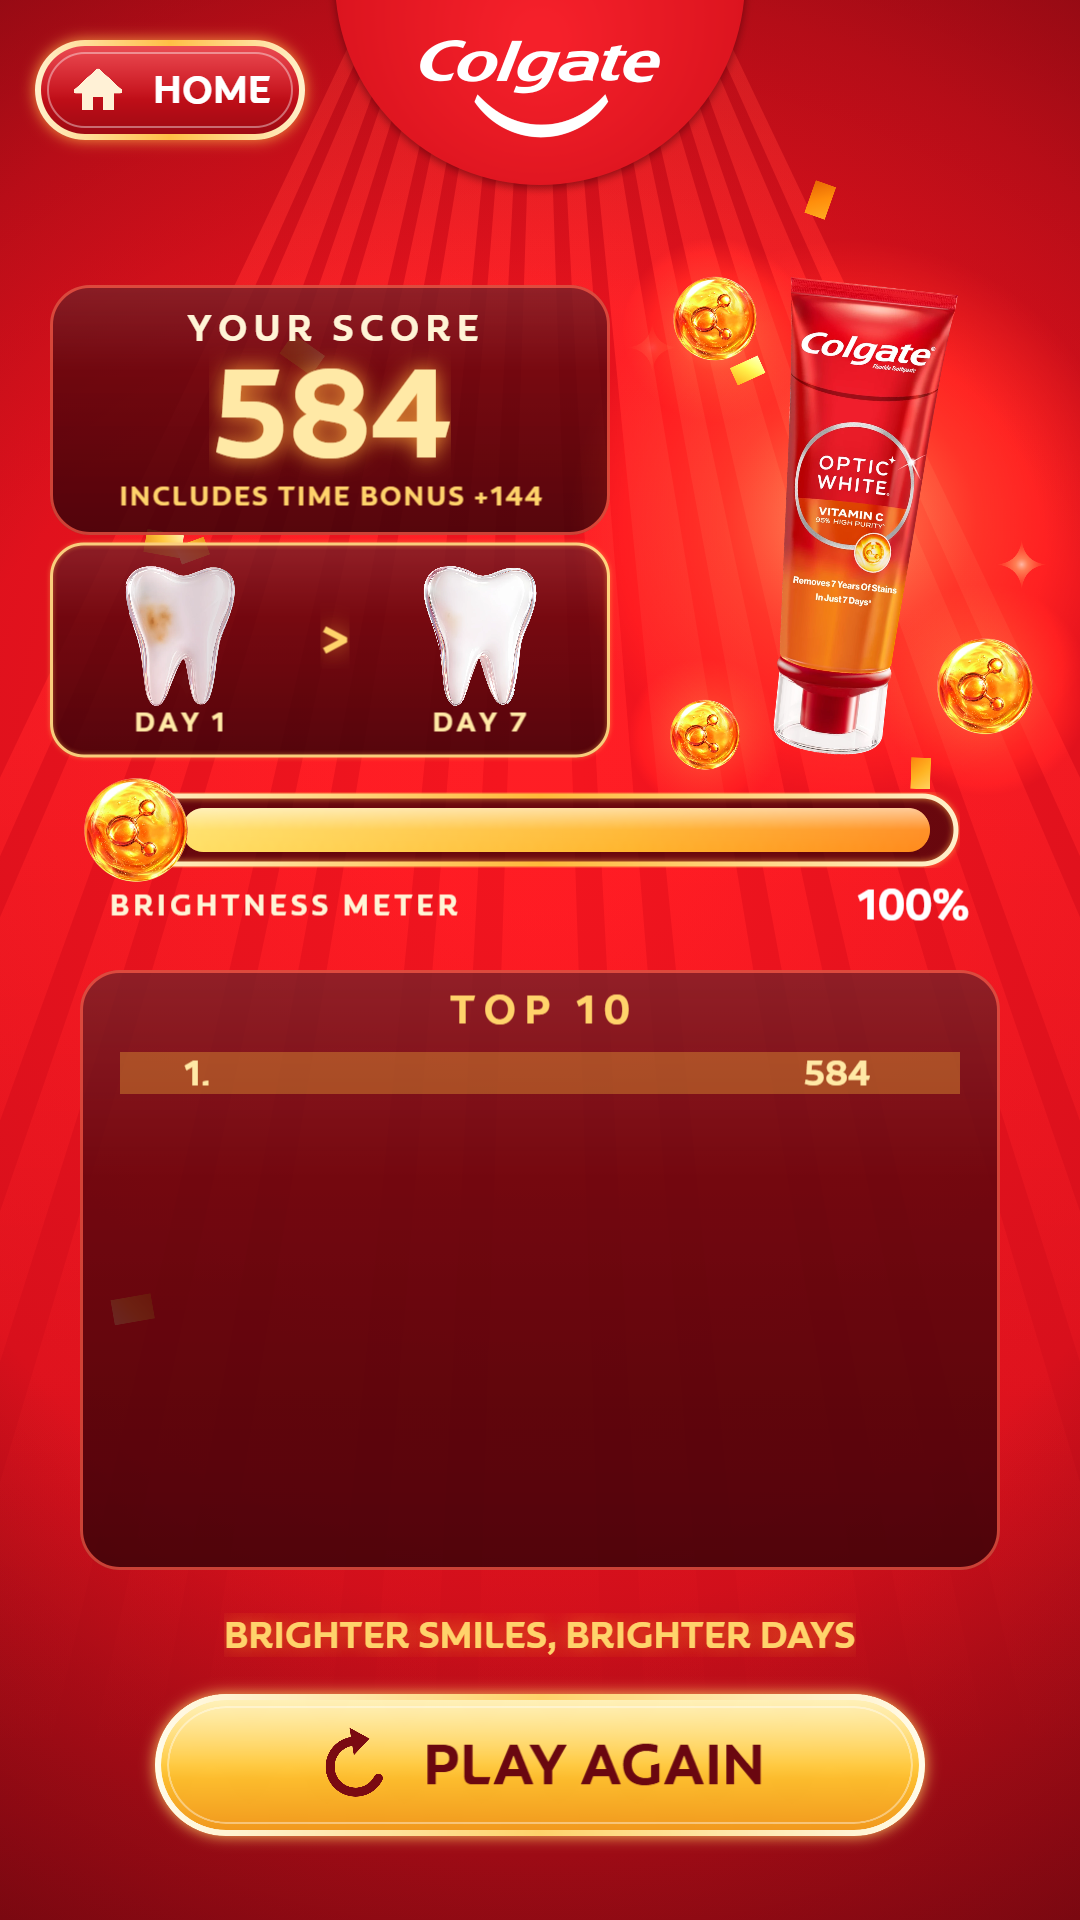
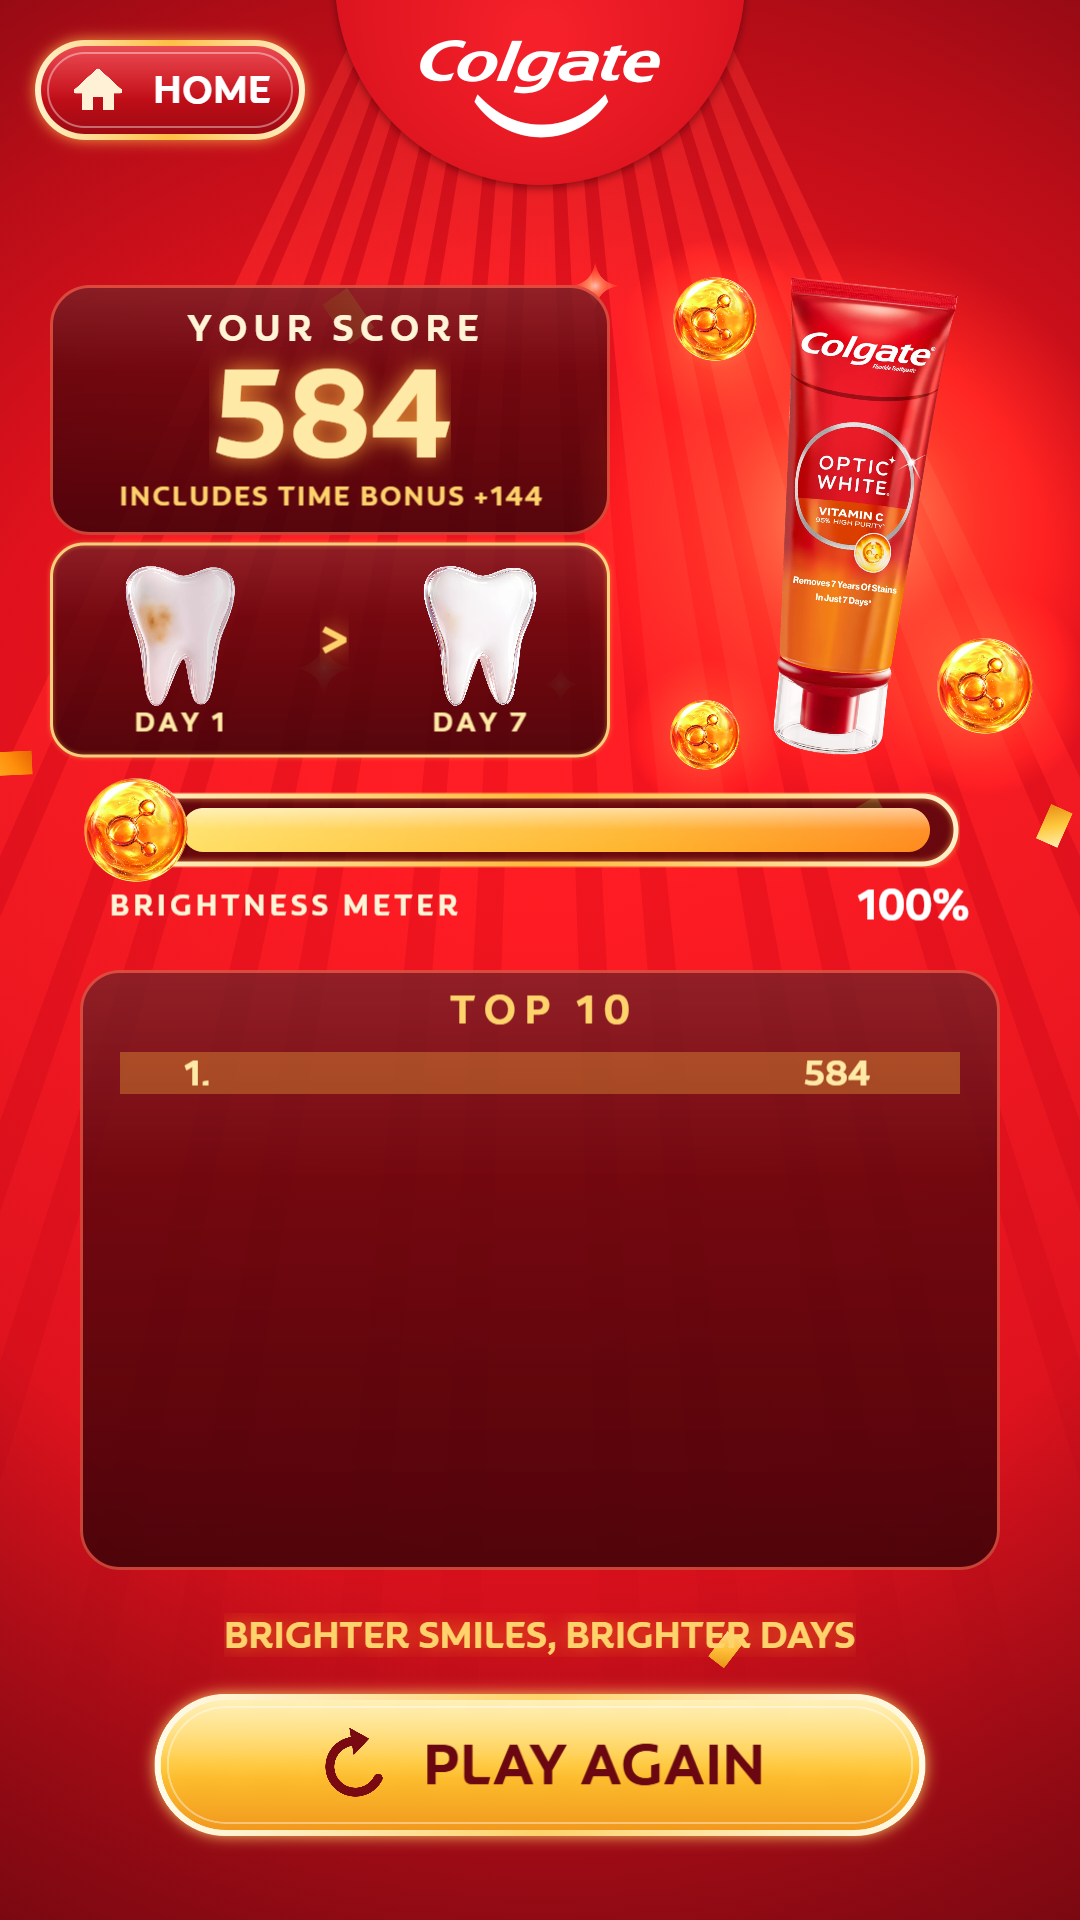
feat: scatter varied-size molecules around the Attract screen

diff --git a/src/scenes/AttractScene.ts b/src/scenes/AttractScene.ts
@@ -150,27 +150,37 @@ export class AttractScene extends Phaser.Scene {
     const tube = this.add.image(tubeX, HERO_Y, 'tube').setDisplaySize(TUBE_WIDTH, TUBE_HEIGHT);
     float(this, tube, 12, 2400);
 
+    // Vitamin C molecules of different sizes, scattered so they fill the space around the ring and
+    // tube without covering the title, tube, dropper or button. Smaller ones float less.
     const capsules = [
-      { x: 115, y: 610, size: 130, delay: 0 },
-      { x: 990, y: 890, size: 110, delay: 500 },
-      { x: 100, y: 1230, size: 110, delay: 1000 },
-      { x: 990, y: 1010, size: 120, delay: 1500 },
-      { x: 920, y: 1585, size: 100, delay: 700 },
-      { x: 170, y: 1560, size: 90, delay: 300 },
+      { x: 110, y: 300, size: 70, delay: 200 },
+      { x: 990, y: 330, size: 85, delay: 900 },
+      { x: 85, y: 560, size: 135, delay: 0 },
+      { x: 130, y: 830, size: 75, delay: 1300 },
+      { x: 1000, y: 800, size: 110, delay: 500 },
+      { x: 70, y: 1040, size: 105, delay: 700 },
+      { x: 955, y: 1050, size: 70, delay: 1600 },
+      { x: 185, y: 1260, size: 140, delay: 1000 },
+      { x: 985, y: 1150, size: 95, delay: 300 },
+      { x: 880, y: 1360, size: 60, delay: 1100 },
+      { x: 960, y: 1440, size: 130, delay: 1500 },
+      { x: 80, y: 1510, size: 85, delay: 600 },
+      { x: 270, y: 1590, size: 58, delay: 1800 },
+      { x: 900, y: 1595, size: 78, delay: 400 },
     ];
     for (const c of capsules) {
       const glow = addGlow(this, c.x, c.y, c.size * 2.4, 0.65);
       const img = this.add.image(c.x, c.y, 'capsule').setDisplaySize(c.size, c.size);
       this.tweens.add({
         targets: [img, glow],
-        y: c.y - 36,
+        y: c.y - (18 + c.size * 0.25),
         yoyo: true,
         repeat: -1,
-        duration: 1900,
+        duration: 1500 + c.size * 6,
         delay: c.delay,
         ease: 'Sine.easeInOut',
       });
-      this.tweens.add({ targets: img, angle: 360, duration: 16_000, repeat: -1 });
+      this.tweens.add({ targets: img, angle: 360, duration: 12_000 + c.size * 40, repeat: -1 });
     }
   }
 }
